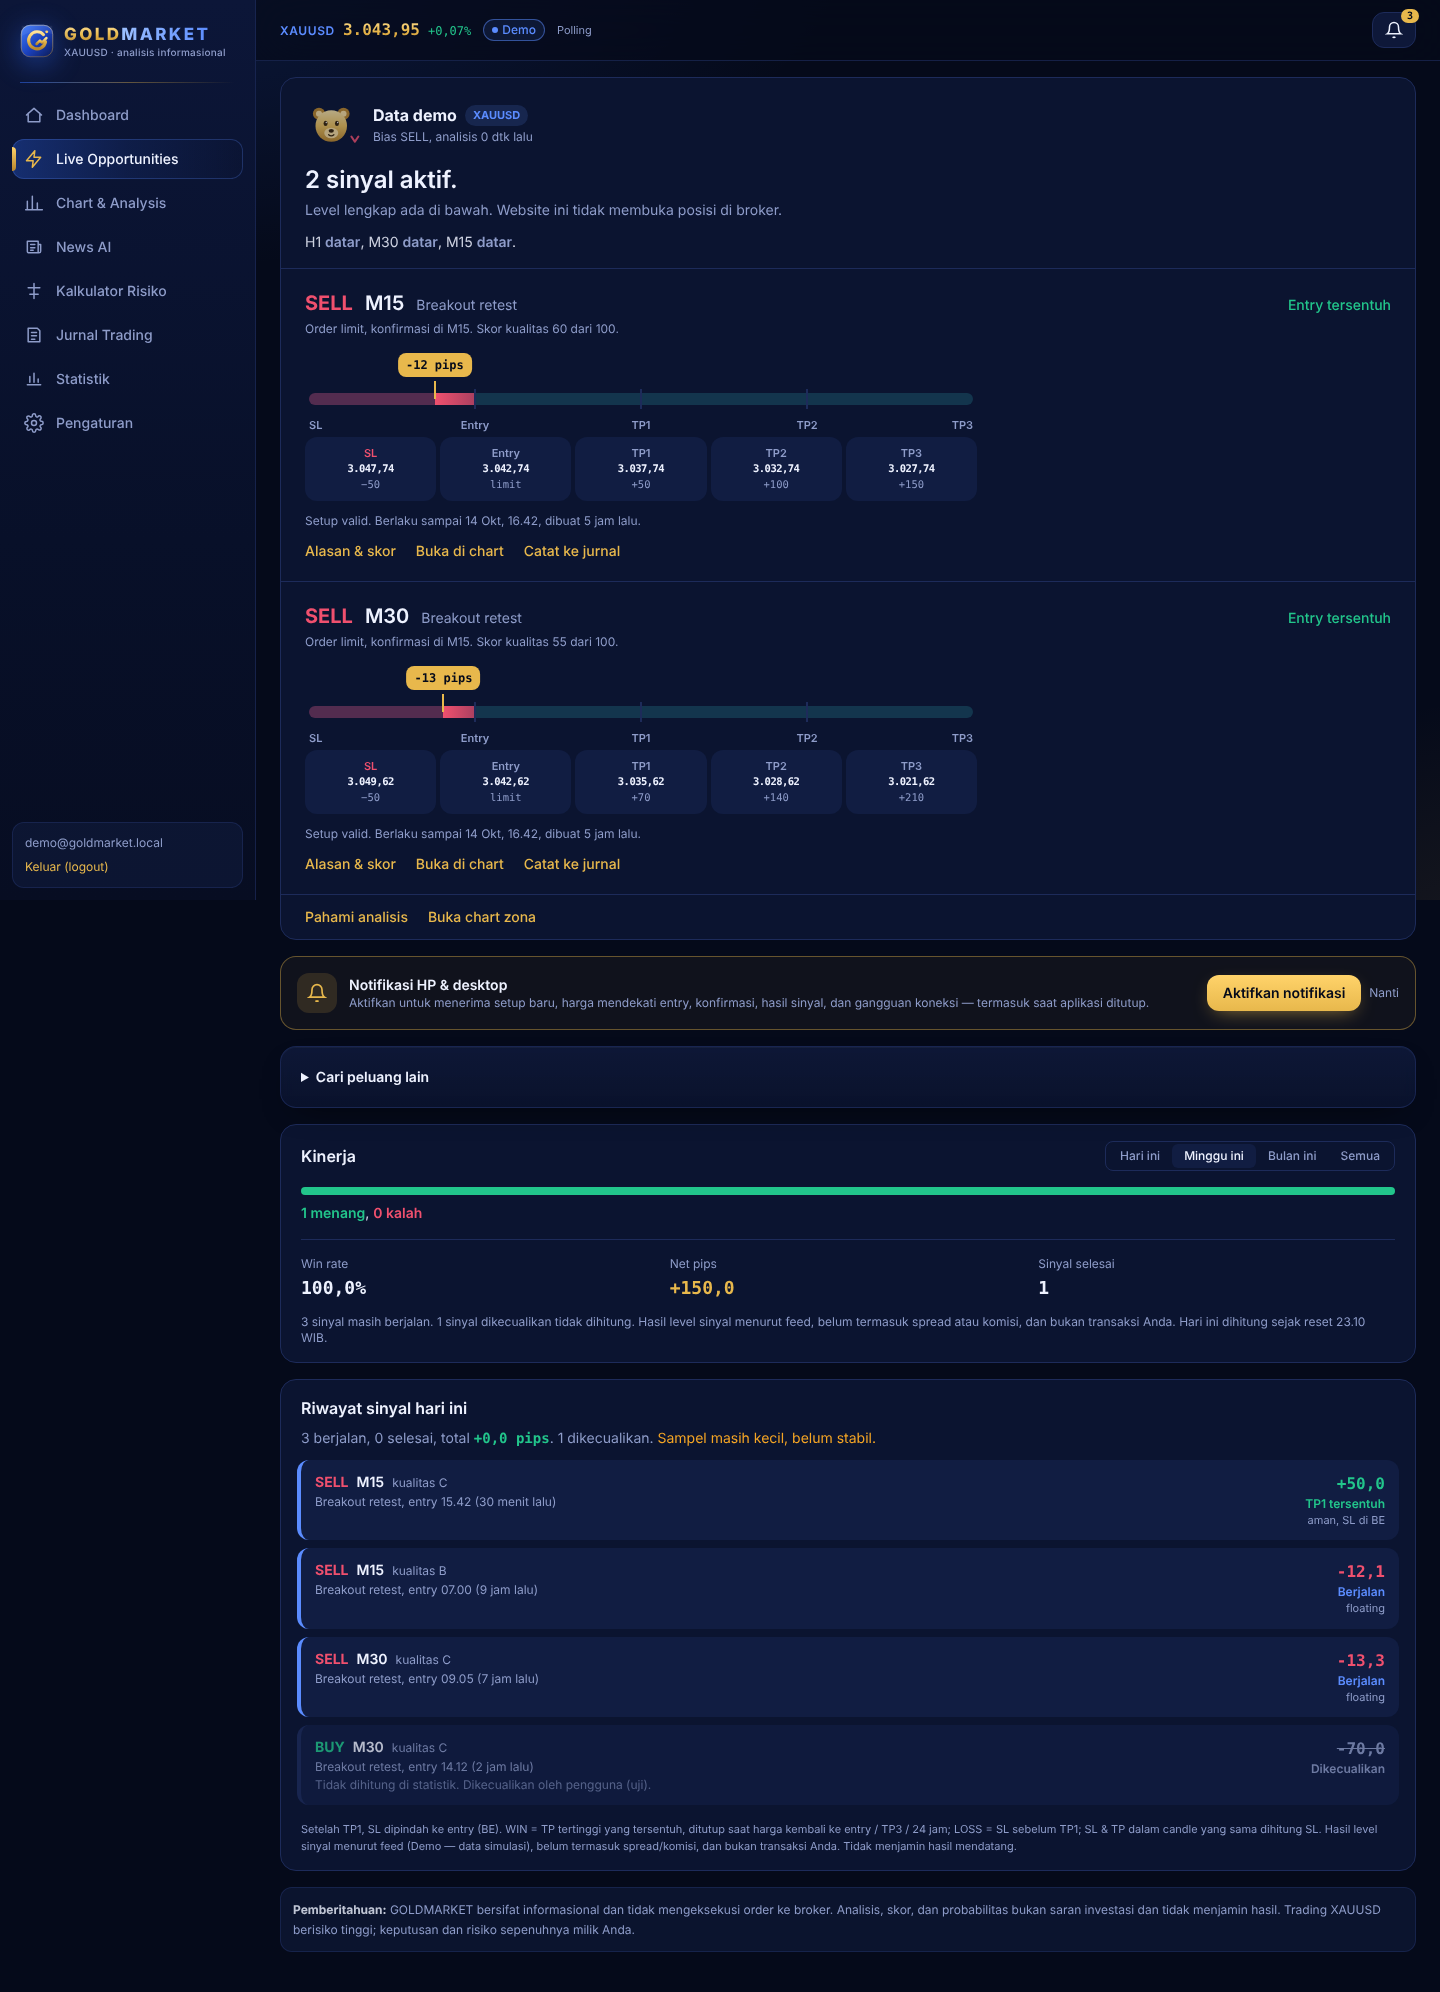
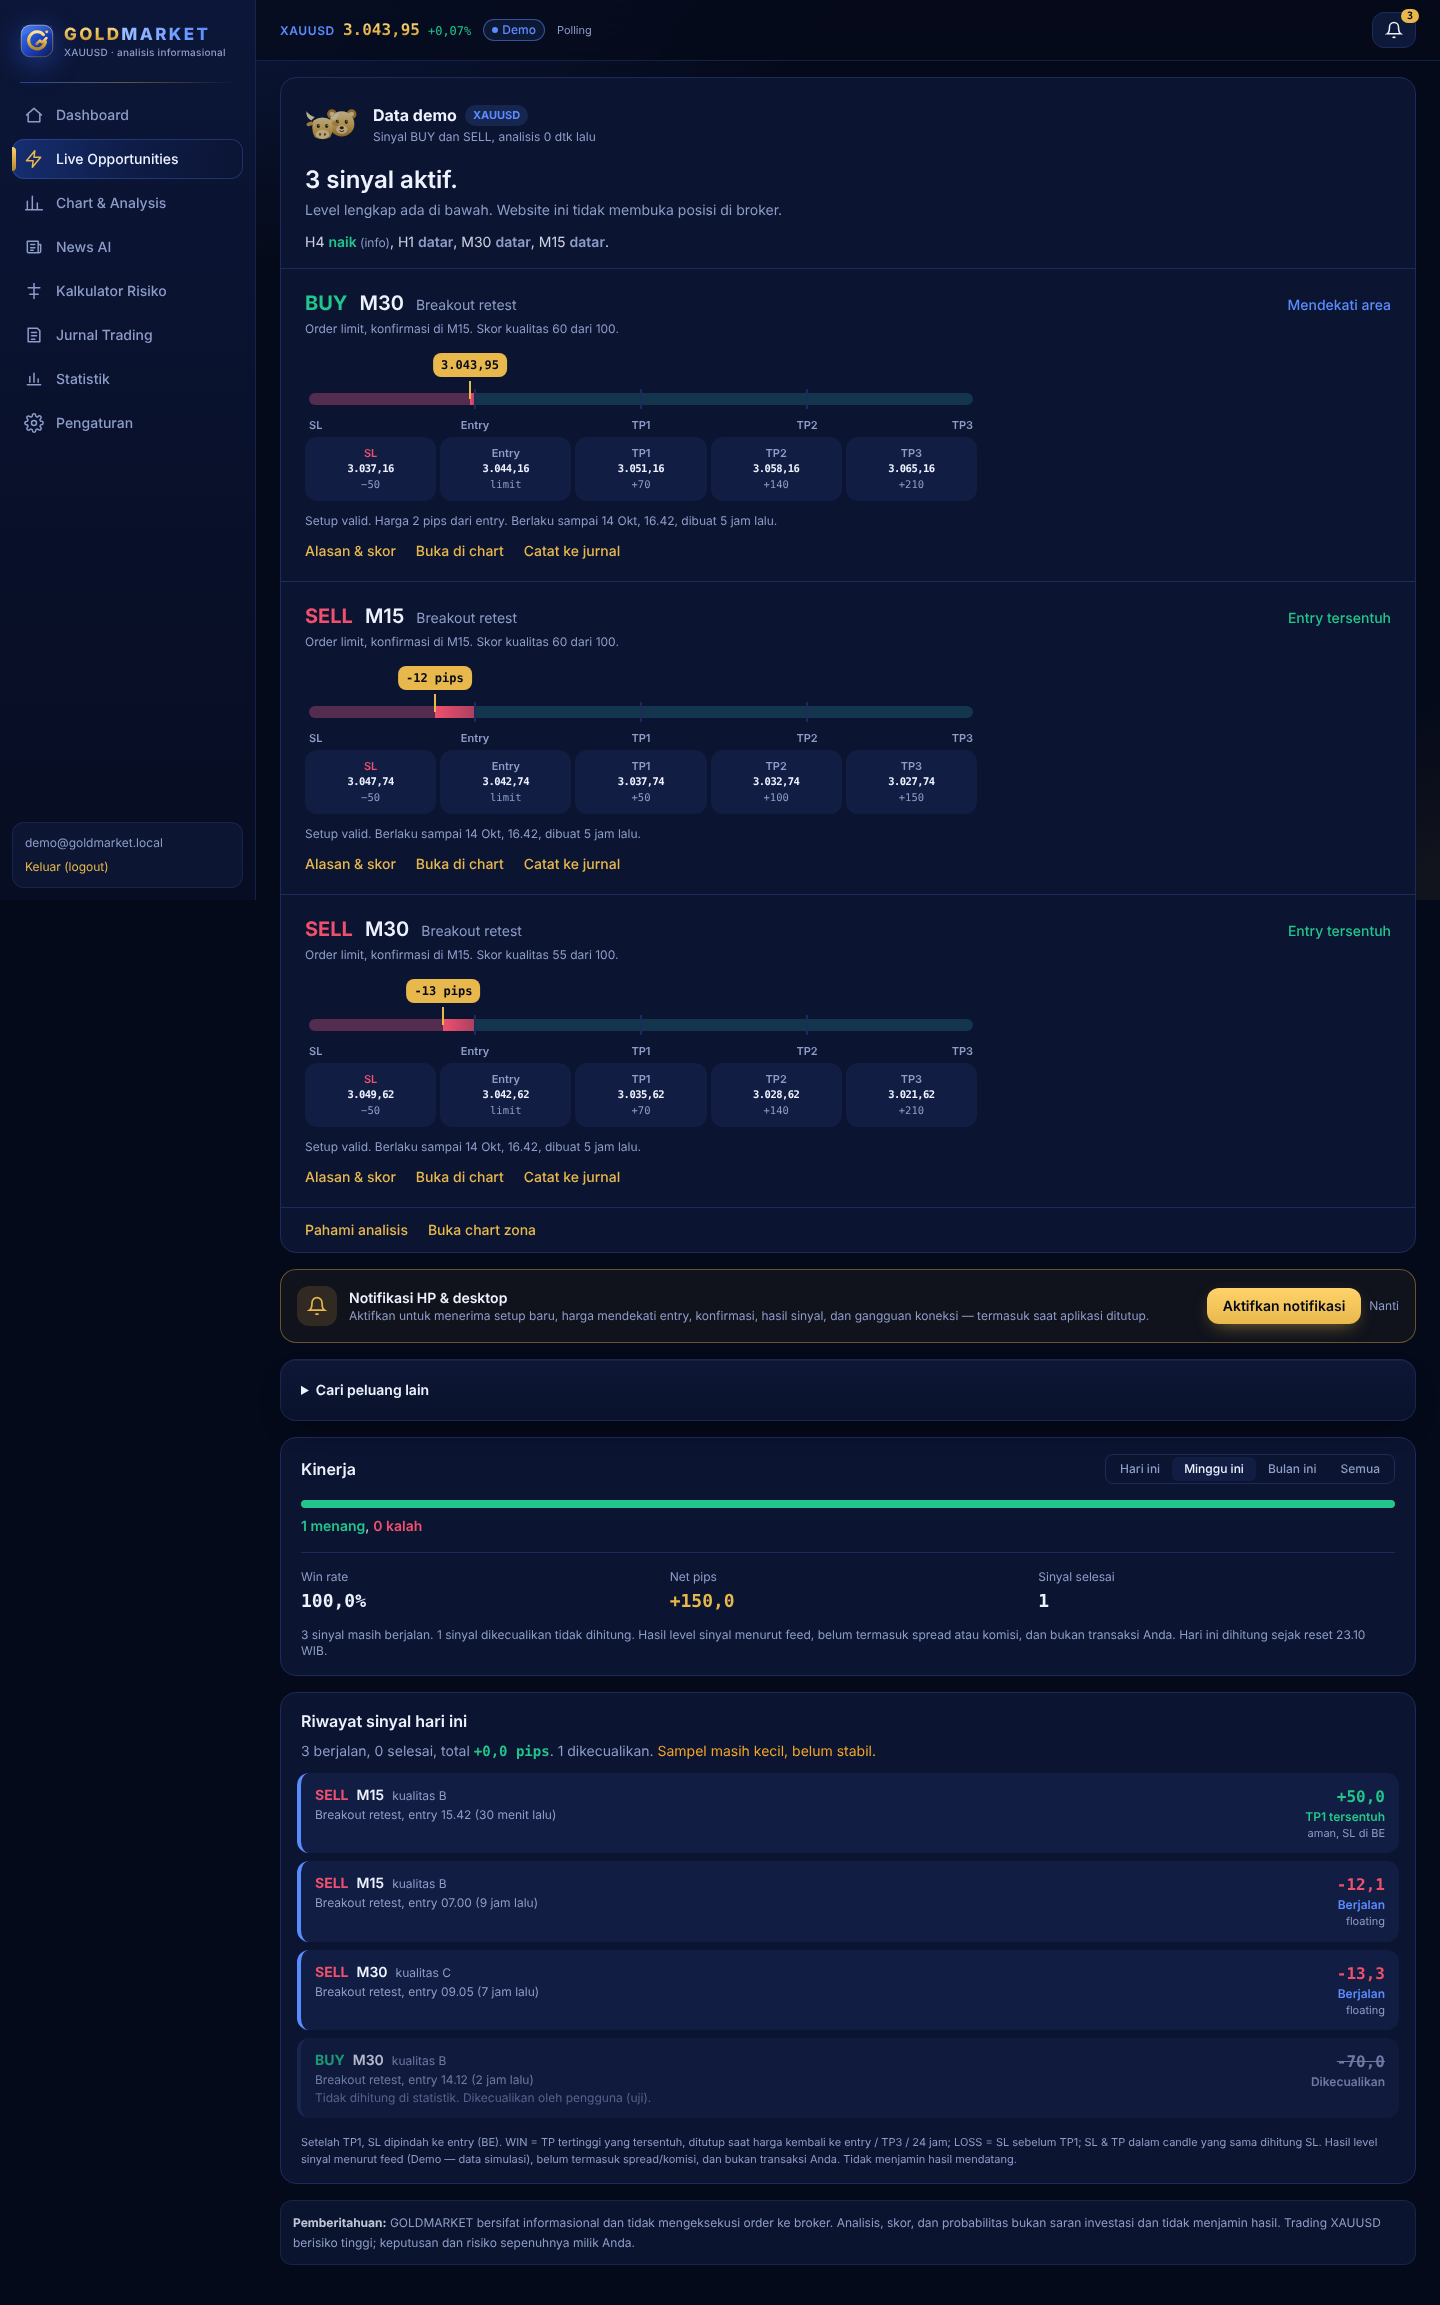
Add H4 as an info timeframe with an additive trend-score bonus
H4 is analysed alongside H1/M30/M15 but stays out of the data-quality
check and never filters a setup: a setup aligned with H4 gets +5 trend
points (capped at 25), so scores can only rise and no signal is dropped.
The Opportunities trend line shows H4 marked as info. Backtests leave
infoTf unset, so the version hash stays 65a428c28fcf. Also fix trend-score
notes that still said H4 & H1 for the H1 & M30 bias.

Claude-Session: https://claude.ai/code/session_013QtfmBmTs5QPLgXJSgfiZY

diff --git a/tests/scoring.test.ts b/tests/scoring.test.ts
@@ -1,0 +1,23 @@
+import { describe, expect, it } from "vitest";
+import { scoreSetup, type ScoreInput } from "../src/core/scoring.ts";
+import type { MarketBias } from "../src/core/types.ts";
+
+const base: ScoreInput = { direction: "BUY", mainBias: "bullish", strongBias: false, levelTouches: 2, hasStructuralInvalidation: true, roomToTp1: true, confirmed: true, rsi: 55, rsiPrev: 52, slAtrContext: 1.2, spreadPips: 3, slPips: 50 };
+const trend = (i: ScoreInput) => scoreSetup(i).components.find((c) => c.key === "trend")!;
+
+describe("bonus skor TF info (H4)", () => {
+  it("H4 searah menambah 5 poin tren, maks 25", () => {
+    expect(trend({ ...base, infoBias: "bullish", infoTf: "H4" }).points).toBe(23);
+    expect(trend({ ...base, strongBias: true, infoBias: "bullish", infoTf: "H4" }).points).toBe(25);
+    expect(trend({ ...base, mainBias: "bearish", infoBias: "bullish", infoTf: "H4" }).points).toBe(5);
+    expect(trend({ ...base, infoBias: "bullish", infoTf: "H4" }).note).toContain("H4 juga searah");
+  });
+  it("H4 tidak pernah menurunkan skor (jumlah sinyal tidak berkurang)", () => {
+    for (const mainBias of ["bullish", "bearish", "ranging"] as MarketBias[])
+      for (const strongBias of [true, false])
+        for (const infoBias of ["bullish", "bearish", "ranging", undefined] as (MarketBias | undefined)[]) {
+          const i = { ...base, mainBias, strongBias };
+          expect(scoreSetup({ ...i, infoBias, infoTf: "H4" }).total).toBeGreaterThanOrEqual(scoreSetup(i).total);
+        }
+  });
+});

diff --git a/src/app/opportunities/page.tsx b/src/app/opportunities/page.tsx
@@ -207,15 +207,19 @@ function LiveSignal() {
           <p className="mt-1 max-w-prose text-sm text-muted">{sub}</p>
           {analysis && (
             <p className="mt-3 text-sm text-ink/85">
-              {(["H1", "M30", "M15"] as const).map((tf, i) => {
-                const t = TREND[analysis.timeframes[tf]?.bias ?? ""] ?? { word: "belum ada data", cls: "text-muted" };
-                return (
-                  <span key={tf}>
-                    {i > 0 && ", "}
-                    {tf} <span className={cx("font-semibold", t.cls)}>{t.word}</span>
-                  </span>
-                );
-              })}
+              {/* H4 hanya info & bonus skor, bukan filter sinyal */}
+              {(["H4", "H1", "M30", "M15"] as const)
+                .filter((tf) => tf !== "H4" || analysis.timeframes.H4)
+                .map((tf, i) => {
+                  const t = TREND[analysis.timeframes[tf]?.bias ?? ""] ?? { word: "belum ada data", cls: "text-muted" };
+                  return (
+                    <span key={tf}>
+                      {i > 0 && ", "}
+                      {tf} <span className={cx("font-semibold", t.cls)}>{t.word}</span>
+                      {tf === "H4" && <span className="text-xs text-muted"> (info)</span>}
+                    </span>
+                  );
+                })}
               .
             </p>
           )}

diff --git a/src/core/scoring.ts b/src/core/scoring.ts
@@ -19,6 +19,9 @@ export interface ScoreInput {
   direction: Direction;
   mainBias: MarketBias;
   strongBias: boolean;
+  /** bias TF info (H4): hanya MENAMBAH poin tren bila searah, tidak pernah mengurangi */
+  infoBias?: MarketBias;
+  infoTf?: string;
   /** jumlah sentuhan level acuan (support/resistance/area) */
   levelTouches: number;
   hasStructuralInvalidation: boolean;
@@ -44,13 +47,18 @@ export function scoreSetup(i: ScoreInput): ScoreBreakdown {
   let trendNote = "Bias utama tidak searah";
   if (i.mainBias === dirBias && i.strongBias) {
     trend = 25;
-    trendNote = "H4 & H1 searah dengan setup";
+    trendNote = "H1 & M30 searah dengan setup";
   } else if (i.mainBias === dirBias) {
     trend = 18;
-    trendNote = "H1 searah, H4 netral";
+    trendNote = "M30 searah, H1 netral";
   } else if (i.mainBias === "ranging") {
     trend = 8;
     trendNote = "Bias utama ranging";
+  }
+  // bonus TF info (H4): +5 bila searah, maks 25 — skor tidak pernah turun karena H4
+  if (i.infoBias === dirBias) {
+    trend = Math.min(SCORE_WEIGHTS.trend, trend + 5);
+    trendNote += `; ${i.infoTf ?? "H4"} juga searah`;
   }
 
   let structure = i.hasStructuralInvalidation ? 10 : 0;

diff --git a/supabase/functions/_shared/core/scoring.ts b/supabase/functions/_shared/core/scoring.ts
@@ -19,6 +19,9 @@ export interface ScoreInput {
   direction: Direction;
   mainBias: MarketBias;
   strongBias: boolean;
+  /** bias TF info (H4): hanya MENAMBAH poin tren bila searah, tidak pernah mengurangi */
+  infoBias?: MarketBias;
+  infoTf?: string;
   /** jumlah sentuhan level acuan (support/resistance/area) */
   levelTouches: number;
   hasStructuralInvalidation: boolean;
@@ -44,13 +47,18 @@ export function scoreSetup(i: ScoreInput): ScoreBreakdown {
   let trendNote = "Bias utama tidak searah";
   if (i.mainBias === dirBias && i.strongBias) {
     trend = 25;
-    trendNote = "H4 & H1 searah dengan setup";
+    trendNote = "H1 & M30 searah dengan setup";
   } else if (i.mainBias === dirBias) {
     trend = 18;
-    trendNote = "H1 searah, H4 netral";
+    trendNote = "M30 searah, H1 netral";
   } else if (i.mainBias === "ranging") {
     trend = 8;
     trendNote = "Bias utama ranging";
+  }
+  // bonus TF info (H4): +5 bila searah, maks 25 — skor tidak pernah turun karena H4
+  if (i.infoBias === dirBias) {
+    trend = Math.min(SCORE_WEIGHTS.trend, trend + 5);
+    trendNote += `; ${i.infoTf ?? "H4"} juga searah`;
   }
 
   let structure = i.hasStructuralInvalidation ? 10 : 0;

diff --git a/supabase/functions/engine/index.ts b/supabase/functions/engine/index.ts
@@ -423,6 +423,8 @@ async function tick(db: Db, cfg: EngineConfig, pid: string) {
   // ---- analisis ----
   const raw: Partial<Record<Timeframe, Candle[]>> = {};
   for (const tf of analysisTfs(cfg)) raw[tf] = await loadCandles(db, provider.id, tf, 300);
+  // TF info (H4): untuk arah besar & bonus skor saja
+  if (cfg.infoTf && !raw[cfg.infoTf]) raw[cfg.infoTf] = await loadCandles(db, provider.id, cfg.infoTf, 300);
   // M5 bukan TF analisis: dipakai untuk waktu sentuhan entry & pelacakan hasil (sumbu SL/TP di antara tick harga)
   const m5 = raw.M5 ?? (await loadCandles(db, provider.id, "M5", 300));
   const since = iso(t0 - 3 * 86400);
@@ -990,6 +992,8 @@ async function backtest(db: Db, cfg: EngineConfig, _pid: string) {
     minSlAtrContext: Math.min(cfg.minSlAtrContext, BT_MIN_SL_ATR_CTX),
     // aturan pengiriman live tidak disimulasikan; undefined → tidak masuk hash versi
     delivery: undefined,
+    // bonus skor H4 khusus live; undefined → simulasi & hash versi backtest tidak berubah
+    infoTf: undefined,
   };
   const version = await strategyVersion(btCfg, o, hist.id);
   const nowSec = Math.floor(Date.now() / 1000);

diff --git a/src/core/config.ts b/src/core/config.ts
@@ -20,6 +20,8 @@ export interface EngineConfig {
   thresholds: QualityThresholds;
   /** bias utama: TF besar (major) + TF pendukung (minor) — sejak 19 Okt 2026: H1 + M30 */
   biasTfs: { major: Timeframe; minor: Timeframe };
+  /** TF tambahan yang dianalisis HANYA untuk info & bonus skor tren (bukan filter, tidak ikut cek kualitas data). Sejak 20 Okt 2026: H4. */
+  infoTf?: Timeframe;
   pairs: TfPair[];
   strategies: StrategyId[];
   /** skor minimum agar engine menyimpan setup (filter per pengguna bisa lebih ketat) */
@@ -88,6 +90,7 @@ export const DEFAULT_ENGINE_CONFIG: EngineConfig = {
   thresholds: DEFAULT_THRESHOLDS,
   // hanya M15, M30, H1 (permintaan pengguna 19 Okt 2026): bias H1+M30, setup M15 & M30, konfirmasi candle M15
   biasTfs: { major: "H1", minor: "M30" },
+  infoTf: "H4",
   pairs: [
     { context: "M15", confirm: "M15" },
     { context: "M30", confirm: "M15" },

diff --git a/supabase/functions/_shared/core/config.ts b/supabase/functions/_shared/core/config.ts
@@ -20,6 +20,8 @@ export interface EngineConfig {
   thresholds: QualityThresholds;
   /** bias utama: TF besar (major) + TF pendukung (minor) — sejak 19 Okt 2026: H1 + M30 */
   biasTfs: { major: Timeframe; minor: Timeframe };
+  /** TF tambahan yang dianalisis HANYA untuk info & bonus skor tren (bukan filter, tidak ikut cek kualitas data). Sejak 20 Okt 2026: H4. */
+  infoTf?: Timeframe;
   pairs: TfPair[];
   strategies: StrategyId[];
   /** skor minimum agar engine menyimpan setup (filter per pengguna bisa lebih ketat) */
@@ -88,6 +90,7 @@ export const DEFAULT_ENGINE_CONFIG: EngineConfig = {
   thresholds: DEFAULT_THRESHOLDS,
   // hanya M15, M30, H1 (permintaan pengguna 19 Okt 2026): bias H1+M30, setup M15 & M30, konfirmasi candle M15
   biasTfs: { major: "H1", minor: "M30" },
+  infoTf: "H4",
   pairs: [
     { context: "M15", confirm: "M15" },
     { context: "M30", confirm: "M15" },

diff --git a/src/core/engine.ts b/src/core/engine.ts
@@ -103,7 +103,9 @@ export function runEngineCycle(i: EngineInput): EngineOutput {
     spreadPips: i.spreadPips,
     thresholds: cfg.thresholds,
   });
-  const analysis = analyzeMarket({ nowSec: i.nowSec, candles: closed }, tfs, cfg.biasTfs);
+  // TF info (H4) ikut dianalisis bila datanya ada, tetapi tidak masuk requiredTfs kualitas data di atas
+  const withInfo = cfg.infoTf && closed[cfg.infoTf]?.length ? [...tfs, cfg.infoTf] : tfs;
+  const analysis = analyzeMarket({ nowSec: i.nowSec, candles: closed }, withInfo, cfg.biasTfs);
 
   const notifications: EngineNotification[] = [];
   const created: SetupCandidate[] = [];

diff --git a/supabase/functions/_shared/core/engine.ts b/supabase/functions/_shared/core/engine.ts
@@ -103,7 +103,9 @@ export function runEngineCycle(i: EngineInput): EngineOutput {
     spreadPips: i.spreadPips,
     thresholds: cfg.thresholds,
   });
-  const analysis = analyzeMarket({ nowSec: i.nowSec, candles: closed }, tfs, cfg.biasTfs);
+  // TF info (H4) ikut dianalisis bila datanya ada, tetapi tidak masuk requiredTfs kualitas data di atas
+  const withInfo = cfg.infoTf && closed[cfg.infoTf]?.length ? [...tfs, cfg.infoTf] : tfs;
+  const analysis = analyzeMarket({ nowSec: i.nowSec, candles: closed }, withInfo, cfg.biasTfs);
 
   const notifications: EngineNotification[] = [];
   const created: SetupCandidate[] = [];

diff --git a/src/core/strategies.ts b/src/core/strategies.ts
@@ -201,6 +201,8 @@ function finalize(d: Draft, c: DetectContext): SetupCandidate {
     direction: d.direction,
     mainBias: c.analysis.mainBias,
     strongBias: c.analysis.strongBias,
+    infoBias: c.config.infoTf ? c.analysis.tfs[c.config.infoTf]?.bias : undefined,
+    infoTf: c.config.infoTf,
     levelTouches: d.levelTouches,
     hasStructuralInvalidation: d.invalidation != null,
     roomToTp1: !opposing || opposing.length === 0,

diff --git a/supabase/functions/_shared/core/strategies.ts b/supabase/functions/_shared/core/strategies.ts
@@ -201,6 +201,8 @@ function finalize(d: Draft, c: DetectContext): SetupCandidate {
     direction: d.direction,
     mainBias: c.analysis.mainBias,
     strongBias: c.analysis.strongBias,
+    infoBias: c.config.infoTf ? c.analysis.tfs[c.config.infoTf]?.bias : undefined,
+    infoTf: c.config.infoTf,
     levelTouches: d.levelTouches,
     hasStructuralInvalidation: d.invalidation != null,
     roomToTp1: !opposing || opposing.length === 0,

diff --git a/docs/STRATEGY.md b/docs/STRATEGY.md
@@ -61,7 +61,7 @@ Konfirmasi hanya memakai **candle tertutup** (`closedAsOf`). Harga intrabar dipa
 4. Area retest = level −0,15/+0,25 ATR (BUY); invalidasi = level ∓ 0,6 ATR.
 
 ### Strategi riset (hanya backtest; live hanya bila terbukti & disetujui)
-- **MSNR flip** (`detectMsnrFlip`, live sebagai **Eksperimen** sejak 20 Okt 2026): **dua arah** sejak 20 Okt 2026 (permintaan pengguna; sebelumnya hanya searah tren H1). Setup yang melawan bias utama tidak ditolak gate struktur, tetapi skor trennya 0 dan alasannya mencatat "melawan tren H1". Level = swing high (BUY) / swing low (SELL) TF konteks dalam 30 bar terakhir yang ditembus close ≥ 0,1 ATR (resistance jadi support / sebaliknya) dan masih segar — belum ada close kembali maupun retest. Area retest L −0,15/+0,2 ATR, invalidasi L ∓ 0,5 ATR. SL/TP mengikuti rencana per TF. Beda dari Breakout retest: satu level swing (A/V), hanya retest pertama.
+- **MSNR flip** (`detectMsnrFlip`, live sebagai **Eksperimen** sejak 20 Okt 2026): **dua arah** sejak 20 Okt 2026 (permintaan pengguna; sebelumnya hanya searah tren H1). Setup yang melawan bias utama tidak ditolak gate struktur dan tidak dibatalkan saat bias utama berlawanan (invalidasi struktur & kedaluwarsa tetap berlaku), tetapi skor trennya 0 (+5 bila H4 searah) dan alasannya mencatat "melawan tren H1". Level = swing high (BUY) / swing low (SELL) TF konteks dalam 30 bar terakhir yang ditembus close ≥ 0,1 ATR (resistance jadi support / sebaliknya) dan masih segar — belum ada close kembali maupun retest. Area retest L −0,15/+0,2 ATR, invalidasi L ∓ 0,5 ATR. SL/TP mengikuti rencana per TF. Beda dari Breakout retest: satu level swing (A/V), hanya retest pertama.
 - **20 Okt 2026**: MSNR flip dibuat dua arah (BUY & SELL) tanpa filter tren H1; SL/TP/RR tidak berubah. CRT tetap seperti semula.
 - **20 Okt 2026**: Breakout retest dan Liquidity sweep dihapus dari sinyal live atas permintaan pengguna (tetap disimulasikan di backtest). Strategi live: Supply/Demand reversal, CRT, MSNR flip.
 - **CRT · Candle Range Theory** (`detectCrt`, live sebagai **Eksperimen** sejak 20 Okt 2026 atas permintaan pengguna): range = candle H1 tertutup terakhir (0,5–3× ATR H1). Candle konteks (M15/M30) sesudahnya menyapu low (BUY) / high (SELL) range ≥ 0,1 ATR lalu menutup kembali di dalam range, tanpa close di luar lagi sesudahnya. Area entry di ujung range (−0,1/+0,25 ATR), invalidasi di luar ujung sapuan, target alami sisi lain range (harus ≥ jarak TP1). SL/TP tetap mengikuti rencana per TF. Gate struktur standar (tidak melawan bias utama). Belum disimulasikan di backtest (versi backtest 12 bulan sedang berjalan).
@@ -91,11 +91,13 @@ Setup gagal gate disimpan sebagai **Invalid / Tidak layak** dengan alasan, tanpa
 
 | Komponen | Bobot | Penilaian |
 |---|---|---|
-| Keselarasan tren | 25 | H4&H1 searah 25 · H1 searah 18 · bias ranging 8 · berlawanan 0 |
+| Keselarasan tren | 25 | H1&M30 searah 25 · M30 searah (H1 ranging) 18 · bias ranging 8 · berlawanan 0; **+5 bila H4 searah** (maks 25, sejak 20 Okt 2026) |
 | Struktur & level | 25 | invalidasi jelas 10 + sentuhan level (1:3, 2:7, ≥3:10) + tidak ada level lawan sebelum TP1 5 |
 | Konfirmasi candle | 20 | candle konfirmasi tertutup 20 |
 | Momentum RSI 14 | 15 | BUY: RSI 45–68 → 10 (40–45 → 5), naik +5, > 75 → 0. SELL simetris |
 | Volatilitas & biaya | 15 | SL 1–3 ATR konteks 8 (0,75–1: 4) + spread ≤ 10% SL 7 (≤ 20%: 3) |
+
+**H4 = TF info** (`infoTf`, sejak 20 Okt 2026): dianalisis untuk ditampilkan dan bonus skor saja — bukan filter, tidak ikut cek kualitas data, dan tidak pernah menurunkan skor, jadi jumlah sinyal tidak berkurang. Tidak dipakai di backtest (hash versi tetap).
 
 Engine menyimpan setup dengan skor ≥ 40; minimum skor tampilan/notifikasi per TF default 60 (M15, H1) dan dapat diatur pengguna. Skor 80/100 **tidak** berarti 80% peluang menang.
 
